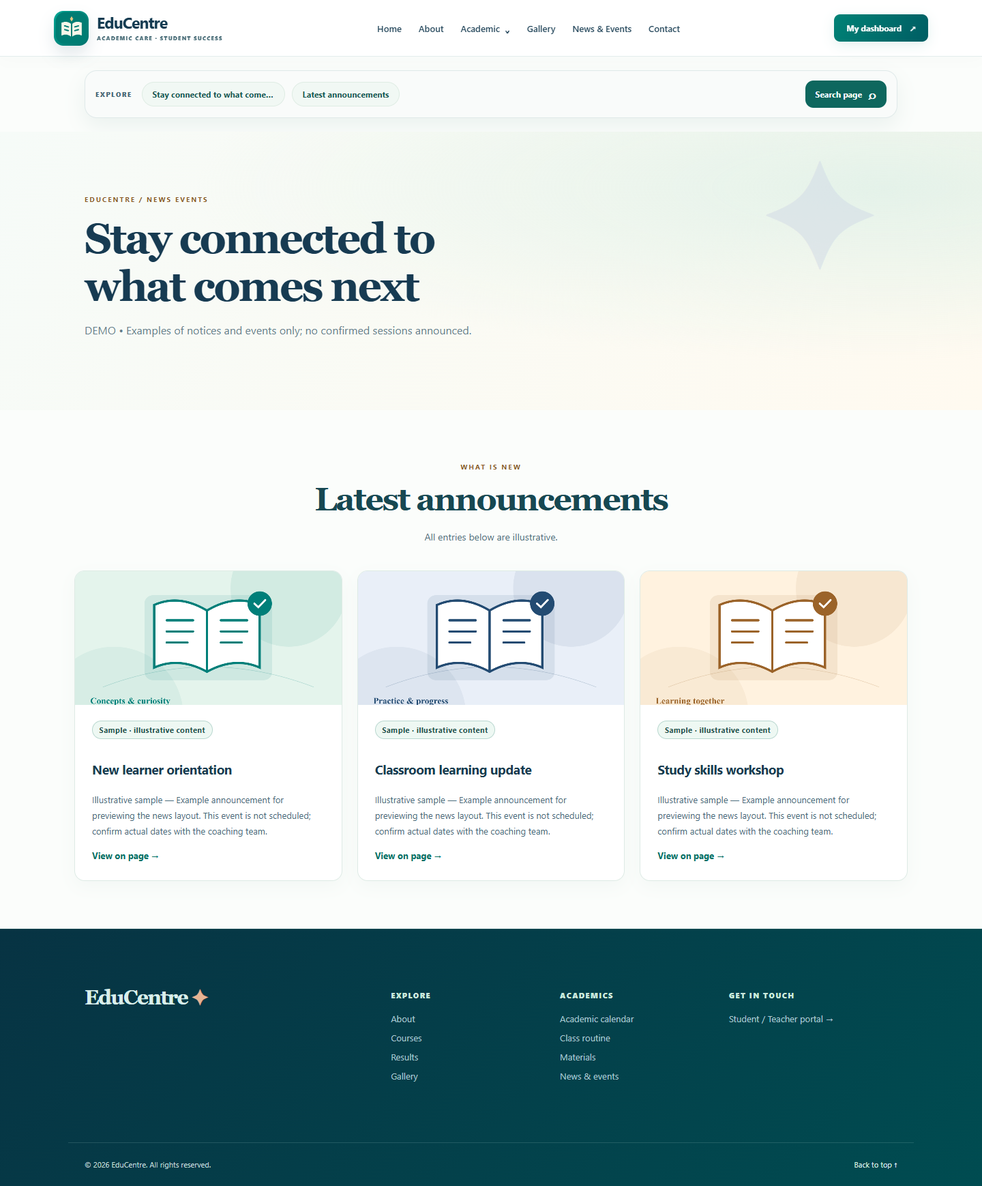
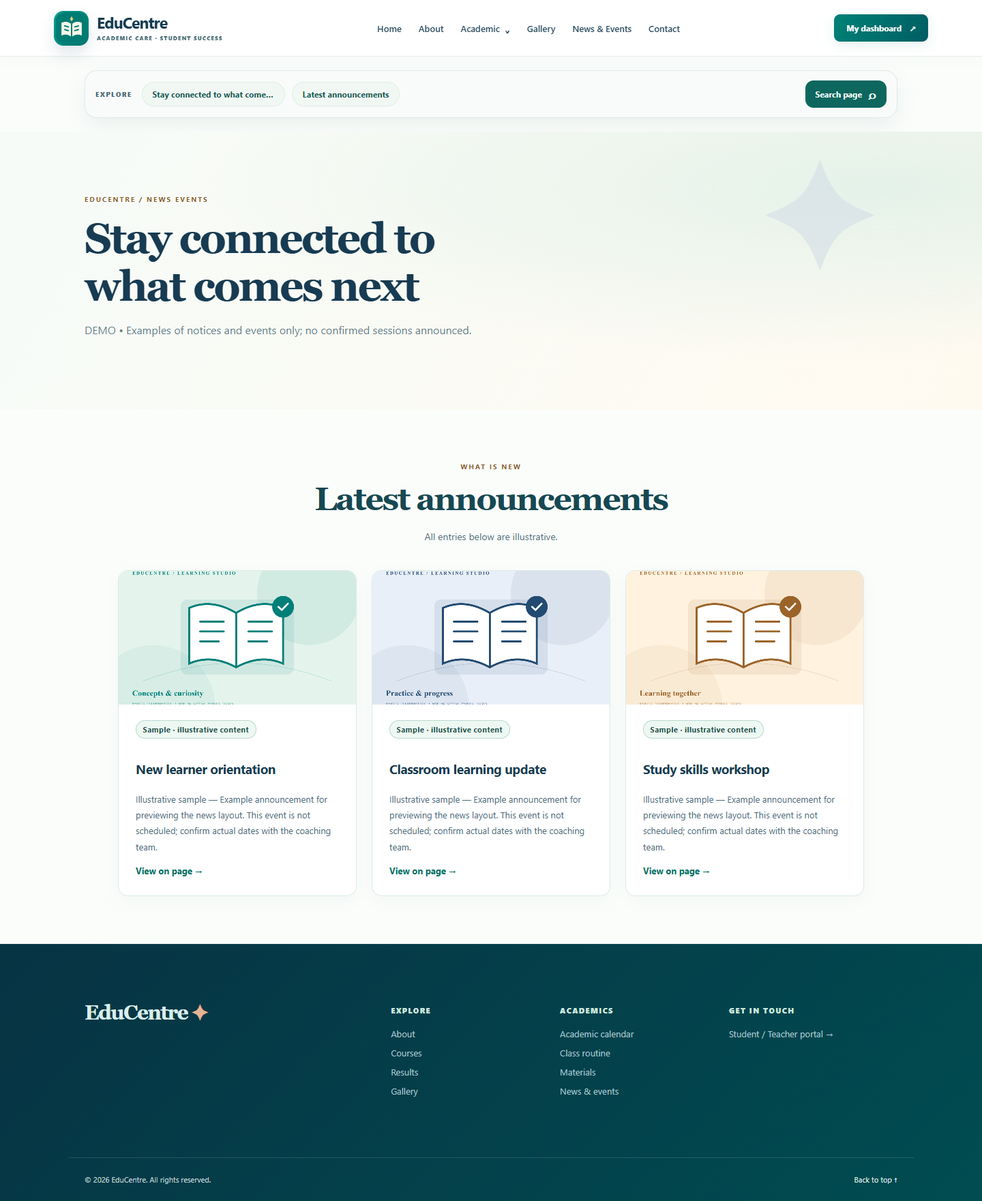
feat: add complete CMS card controls and center carousel slides

diff --git a/src/components/portal/WebsiteAdminStudio.tsx b/src/components/portal/WebsiteAdminStudio.tsx
@@ -54,14 +54,15 @@ export function WebsiteAdminStudio({target}:{target?:{id?:string;sectionId?:stri
  const [writeStatus,setWriteStatus]=useState<'checking'|'enabled'|'disabled'|'unavailable'|'unauthenticated'|'forbidden'>('checking');
  const [writeRuntime,setWriteRuntime]=useState<'local-development'|'deployment'>('local-development');
  const [designPreview,setDesignPreview]=useState<{sectionId:string;itemId:string|null;design:CmsDesign}|null>(null);
+ const [mediaPreview,setMediaPreview]=useState<{itemId:string;mediaId:string|null}|null>(null),[mediaBusy,setMediaBusy]=useState(false);
  const [typedDirty,setTypedDirty]=useState(false);
  const [typedPreview,setTypedPreview]=useState<{sectionId:string;itemId:string;key:string;value:Record<string,unknown>}|null>(null);
  const statusSequence=useRef(0),mutationBusy=useRef(false),appliedSectionTarget=useRef('');
  const selection=useRef(0);const handledTarget=useRef<number|null>(null);const selected=page?.sections.find(s=>s.id===selectedSection);const content=selected?.items.find(i=>i.id===selectedItem);
  const settingsDirty=Boolean(global&&JSON.stringify(settings)!==JSON.stringify(global.settings));
- const unsaved=settingsDirty||typedDirty||Boolean(designPreview)||Boolean(!selected&&(section.heading||section.body))||Boolean(!content&&(item.title||item.description||item.url))||Boolean(page&&(title!==page.title||seoTitle!==page.seoTitle||seoDescription!==page.seoDescription||selected&&(section.kind!==selected.kind||section.heading!==selected.heading||section.body!==selected.body||section.visible!==selected.visible)||content&&(item.title!==content.title||item.description!==content.description||item.url!==(content.url??'')||item.visible!==content.visible)));
- const canPublish=Boolean(page&&page.draftRevision!==page.publishedRevision&&!unsaved&&writeStatus==='enabled'&&!busy);
- const previewPage=page?{...page,title,sections:page.sections.map(s=>s.id===selectedSection?{...s,...section,...(designPreview?.sectionId===s.id&&!designPreview.itemId?{design:designPreview.design}:{}),...(typedPreview?.sectionId===s.id&&!typedPreview.itemId?{sectionKey:typedPreview.key,content:typedPreview.value}:{}),items:s.items.map(i=>i.id===selectedItem?{...i,...item,url:item.url||null,...(designPreview?.itemId===i.id?{design:designPreview.design}:{}),...(typedPreview?.itemId===i.id?{metadata:typedPreview.value}:{})}:i)}:s)}:null;
+ const unsaved=settingsDirty||typedDirty||Boolean(mediaPreview)||Boolean(designPreview)||Boolean(!selected&&(section.heading||section.body))||Boolean(!content&&(item.title||item.description||item.url))||Boolean(page&&(title!==page.title||seoTitle!==page.seoTitle||seoDescription!==page.seoDescription||selected&&(section.kind!==selected.kind||section.heading!==selected.heading||section.body!==selected.body||section.visible!==selected.visible)||content&&(item.title!==content.title||item.description!==content.description||item.url!==(content.url??'')||item.visible!==content.visible)));
+ const canPublish=Boolean(page&&page.draftRevision!==page.publishedRevision&&!unsaved&&writeStatus==='enabled'&&!busy&&!mediaBusy);
+ const previewPage=page?{...page,title,sections:page.sections.map(s=>s.id===selectedSection?{...s,...section,...(designPreview?.sectionId===s.id&&!designPreview.itemId?{design:designPreview.design}:{}),...(typedPreview?.sectionId===s.id&&!typedPreview.itemId?{sectionKey:typedPreview.key,content:typedPreview.value}:{}),items:s.items.map(i=>i.id===selectedItem?{...i,...item,url:item.url||null,...(mediaPreview?.itemId===i.id?{mediaId:mediaPreview.mediaId}:{}),...(designPreview?.itemId===i.id?{design:designPreview.design}:{}),...(typedPreview?.itemId===i.id?{metadata:typedPreview.value}:{})}:i)}:s)}:null;
 
  useEffect(()=>{if(!unsaved)return;const before=(event:BeforeUnloadEvent)=>{event.preventDefault();};const navigate=(event:MouseEvent)=>{const target=event.target instanceof Element?event.target.closest('.portal-workspace-switch button,.portal-signout,.portal-mobile-logout'):null;if(target&&!window.confirm('Discard unsaved website edits?')){event.preventDefault();event.stopPropagation();}};window.addEventListener('beforeunload',before);document.addEventListener('click',navigate,true);return()=>{window.removeEventListener('beforeunload',before);document.removeEventListener('click',navigate,true);};},[unsaved]);
  // Load write readiness after mounting, without a synchronous effect state update.
@@ -96,14 +97,14 @@ export function WebsiteAdminStudio({target}:{target?:{id?:string;sectionId?:stri
   if(!next||typeof next.revision!=='number'||!next.settings||typeof next.settings.siteTitle!=='string')throw Error('Invalid global settings response.');
   setGlobal(next);setSettings({...next.settings});
  },[]);
- useEffect(()=>{const reload=()=>{void refreshMedia().catch(()=>{});};window.addEventListener('educentre:media-uploaded',reload);return()=>window.removeEventListener('educentre:media-uploaded',reload);},[refreshMedia]);
+ useEffect(()=>{const reload=()=>{void refreshMedia().catch(()=>{});};const uploading=(event:Event)=>setMediaBusy(Boolean((event as CustomEvent).detail));window.addEventListener('educentre:media-uploaded',reload);window.addEventListener('educentre:media-busy',uploading);return()=>{window.removeEventListener('educentre:media-uploaded',reload);window.removeEventListener('educentre:media-busy',uploading);};},[refreshMedia]);
  const choosePage=useCallback(async(id:string,preserve=false)=>{
   const seq=++selection.current;
   setBusy(true);setError('');setNotice('');
   try{
    const next=validateCmsPage(await cmsFetch('page',{pageId:id})) as Page;
    if(seq!==selection.current)return;
-   setPage(next);setTitle(next.title);setSeoTitle(next.seoTitle);setSeoDescription(next.seoDescription);setTypedDirty(false);setTypedPreview(null);setDesignPreview(null);
+   setPage(next);setTitle(next.title);setSeoTitle(next.seoTitle);setSeoDescription(next.seoDescription);setTypedDirty(false);setTypedPreview(null);setDesignPreview(null);setMediaPreview(null);
    if(!preserve){setSelectedSection('');setSelectedItem('');setSection(emptySection);setItem(emptyItem);setTypedPreview(null);setContextFocus({id:'page:'+next.id,pageId:next.id,label:next.title,type:'page'});}
    return next;
   }catch(e){if(seq===selection.current)setError(errorOf(e));}finally{if(seq===selection.current)setBusy(false);}
@@ -166,7 +167,7 @@ export function WebsiteAdminStudio({target}:{target?:{id?:string;sectionId?:stri
   catch(e){setError(errorOf(e));if(e instanceof CmsRequestError){if(e.code==='MUTATIONS_DISABLED')setWriteStatus('disabled');else if(e.status===401)setWriteStatus('unauthenticated');else if(e.status===403)setWriteStatus('forbidden');else if(e.status>=500)setWriteStatus('unavailable');}}finally{mutationBusy.current=false;setBusy(false);}
  };
  function saveAllDraftChanges(){
-  if(!page||!unsaved)return;
+  if(!page||!unsaved||mediaBusy)return;
   const steps:CmsDraftStep[]=[];
   if(title!==page.title||seoTitle!==page.seoTitle||seoDescription!==page.seoDescription)steps.push({kind:'pageUpdate',params:{payload:{title,seoTitle,seoDescription}}});
   const sectionChanged=selected?section.kind!==selected.kind||section.heading!==selected.heading||section.body!==selected.body||section.visible!==selected.visible:Boolean(section.heading||section.body);
@@ -176,6 +177,7 @@ export function WebsiteAdminStudio({target}:{target?:{id?:string;sectionId?:stri
   if(itemChanged)steps.push({kind:'item',params:{sectionId:selected!.id,itemId:content?.id??crypto.randomUUID(),payload:{...item,url:item.url.trim()||null,order:content?.order??(selected!.items.length?Math.max(...selected!.items.map(value=>value.order))+1:0)}}});
   if(typedDirty&&typedPreview)steps.push({kind:'fields',params:{sectionId:typedPreview.sectionId,payload:{sectionKey:typedPreview.key,content:typedPreview.value,itemId:typedPreview.itemId||null}}});
   if(designPreview)steps.push({kind:'design',params:{sectionId:designPreview.sectionId,payload:{design:designPreview.design,itemId:designPreview.itemId}}});
+  if(mediaPreview)steps.push(mediaPreview.mediaId?{kind:'attach',params:{itemId:mediaPreview.itemId,mediaId:mediaPreview.mediaId,payload:{mediaId:mediaPreview.mediaId}}}:{kind:'organize',params:{payload:{action:'media.detach',sectionId:null,itemId:mediaPreview.itemId,orderIds:null}}});
   if(!steps.length){setError('Complete the active fields before saving a draft.');return;}
   void run(async()=>{await saveCmsDraft(page.id,page.draftRevision,steps);if(sectionChanged)setSelectedSection(sectionId);},page.id,false,'Draft changes saved and confirmed. Publish separately when you are ready.');
  }
@@ -196,7 +198,7 @@ export function WebsiteAdminStudio({target}:{target?:{id?:string;sectionId?:stri
 
  async function selectContext(node:CmsNode){
   const next=page?.id===node.pageId?page:await choosePage(node.pageId);if(!next)return;
-  setContextFocus(node);setTypedDirty(false);setTypedPreview(null);setSelectedSection(node.sectionId??'');setSelectedItem(node.itemId??'');
+  setContextFocus(node);setMediaPreview(null);setDesignPreview(null);setTypedDirty(false);setTypedPreview(null);setSelectedSection(node.sectionId??'');setSelectedItem(node.itemId??'');
   const source=next.sections.find(s=>s.id===node.sectionId),card=source?.items.find(i=>i.id===node.itemId);
   if(source&&node.schemaKey&&!source.sectionKey)setTypedPreview({sectionId:source.id,itemId:node.itemId??'',key:node.schemaKey,value:source.content??(node.schemaKey==='HOME_HERO'?{headline:source.heading,description:source.body}:{})});
   setSection(source?{kind:source.kind,heading:source.heading,body:source.body,visible:source.visible}:emptySection);setItem(card?{title:card.title,description:card.description,url:card.url??'',visible:card.visible}:emptyItem);
@@ -205,11 +207,11 @@ export function WebsiteAdminStudio({target}:{target?:{id?:string;sectionId?:stri
  async function duplicate(source:Section,card?:Item){if(!page||!window.confirm('Duplicate this '+(card?'card':'section')+' into the private draft?'))return;void run(async()=>{let revision=page.draftRevision;const sid=card?source.id:crypto.randomUUID();const readRevision=async()=>{const next=validateCmsPage(await cmsFetch('page',{pageId:page.id})) as Page;revision=next.draftRevision;};if(!card){await cmsFetch('section',{pageId:page.id,sectionId:sid,payload:{expectedRevision:revision,kind:source.kind,heading:source.heading+' (copy)',body:source.body,visible:false,order:Math.max(...page.sections.map(s=>s.order))+1}});await readRevision();if(source.sectionKey){await cmsFetch('fields',{pageId:page.id,sectionId:sid,payload:{expectedRevision:revision,sectionKey:source.sectionKey,content:source.content??{},itemId:null}});await readRevision();}}for(const value of card?[card]:source.items){const id=crypto.randomUUID();await cmsFetch('item',{pageId:page.id,sectionId:sid,itemId:id,payload:{expectedRevision:revision,title:value.title+(card?' (copy)':''),description:value.description,url:value.url,visible:card?false:value.visible,order:card?Math.max(-1,...source.items.map(i=>i.order))+1:value.order}});await readRevision();if(source.sectionKey&&value.metadata){await cmsFetch('fields',{pageId:page.id,sectionId:sid,payload:{expectedRevision:revision,sectionKey:source.sectionKey,content:value.metadata,itemId:id}});await readRevision();}if(value.mediaId){await cmsFetch('attach',{pageId:page.id,itemId:id,mediaId:value.mediaId,payload:{expectedRevision:revision,mediaId:value.mediaId}});await readRevision();}}},page.id,false,'Copy saved privately. Review before publishing.');}
  function hide(source:Section,card?:Item){if(!page||!window.confirm((card?.visible??source.visible)?'Disable this content in the draft? It remains stored and can be enabled again.':'Enable this content in the draft?'))return;void run(()=>card?cmsFetch('item',{pageId:page.id,sectionId:source.id,itemId:card.id,payload:{expectedRevision:page.draftRevision,title:card.title,description:card.description,url:card.url,visible:!card.visible,order:card.order}}):cmsFetch('section',{pageId:page.id,sectionId:source.id,payload:{expectedRevision:page.draftRevision,kind:source.kind,heading:source.heading,body:source.body,visible:!source.visible,order:source.order}}),page.id);}
  async function saveHomeLayout(order:string[],hidden:string[]){if(!page||page.slug!=='home'||unsaved)return;void run(async()=>{const layout=page.sections.find(s=>s.sectionKey==='HOME_LAYOUT');let revision=page.draftRevision;const id=layout?.id??crypto.randomUUID();if(!layout){await cmsFetch('section',{pageId:page.id,sectionId:id,payload:{expectedRevision:revision,kind:'footer',heading:'Homepage arrangement',body:'',visible:true,order:Math.max(-1,...page.sections.map(s=>s.order))+1}});const next=validateCmsPage(await cmsFetch('page',{pageId:page.id})) as Page;revision=next.draftRevision;}await cmsFetch('fields',{pageId:page.id,sectionId:id,payload:{expectedRevision:revision,sectionKey:'HOME_LAYOUT',content:{sectionOrder:order,hiddenSections:hidden},itemId:null}});},page.id,false,'Home arrangement saved privately. Review the preview and publish Home when ready.');}
- return <CmsContextWorkspace tool={tab} writeRuntime={writeRuntime} pages={pages} page={page} preview={previewPage} media={media} settings={settings} global={global} busy={busy} loading={loading} unsaved={unsaved} error={error} notice={notice} writable={writeStatus==='enabled'} canPublish={canPublish} focus={contextFocus}
+ return <CmsContextWorkspace tool={tab} writeRuntime={writeRuntime} pages={pages} page={page} preview={previewPage} media={media} settings={settings} global={global} busy={busy||mediaBusy} loading={loading} unsaved={unsaved} error={error} notice={notice} writable={writeStatus==='enabled'} canPublish={canPublish} focus={contextFocus}
  select={selectContext} save={()=>{if(settingsDirty&&global){void run(async()=>{await cmsFetch('settingsUpdate',{payload:{expectedRevision:global.revision,settings}});await refreshSettings();},null);}else saveAllDraftChanges();}} publish={publish} reset={()=>{if(global)setSettings({...global.settings});if(page){const focus=contextFocus;void choosePage(page.id).then(async next=>{if(next&&focus){setContextFocus(focus);const s=next.sections.find(s=>s.id===focus.sectionId),i=s?.items.find(i=>i.id===focus.itemId);setSelectedSection(s?.id??'');setSelectedItem(i?.id??'');setSection(s?{kind:s.kind,heading:s.heading,body:s.body,visible:s.visible}:emptySection);setItem(i?{title:i.title,description:i.description,url:i.url??'',visible:i.visible}:emptyItem);}});}}}
  changeDesign={design=>{if(selected)setDesignPreview({sectionId:selected.id,itemId:selectedItem||null,design});}} changeSection={value=>setSection(previous=>({...previous,kind:value.kind??previous.kind,heading:value.heading??previous.heading,body:value.body??previous.body,visible:value.visible??previous.visible}))} changeItem={value=>setItem(previous=>({...previous,title:value.title??previous.title,description:value.description??previous.description,url:value.url??previous.url,visible:value.visible??previous.visible}))}
  changeFields={(key,value)=>{if(!selected)return;setTypedDirty(true);setTypedPreview({sectionId:selected.id,itemId:selectedItem,key,value});}} changePage={value=>{if(value.title!==undefined)setTitle(value.title);if(value.seoTitle!==undefined)setSeoTitle(value.seoTitle);if(value.seoDescription!==undefined)setSeoDescription(value.seoDescription);}}
- createPage={(slug,title)=>{const id=crypto.randomUUID();void run(()=>cmsFetch('pageCreate',{payload:{id,slug,title,seoTitle:title,seoDescription:''}}),id);}} createSection={(kind,heading,key)=>void addSection(kind,heading,key)} createItem={()=>{if(!page||!selected)return;const id=crypto.randomUUID();void run(()=>cmsFetch('item',{pageId:page.id,sectionId:selected.id,itemId:id,payload:{expectedRevision:page.draftRevision,order:Math.max(-1,...selected.items.map(i=>i.order))+1,title:'New card',description:'',url:null,visible:false}}),page.id);}} reorder={moveContent} saveHomeLayout={(order,hidden)=>void saveHomeLayout(order,hidden)} duplicate={(section,item)=>void duplicate(section,item)} hide={hide}
+ createPage={(slug,title)=>{const id=crypto.randomUUID();void run(()=>cmsFetch('pageCreate',{payload:{id,slug,title,seoTitle:title,seoDescription:''}}),id);}} createSection={(kind,heading,key)=>void addSection(kind,heading,key)} createItem={()=>{if(!page||!selected||unsaved)return;const id=crypto.randomUUID();void run(async()=>{await cmsFetch('item',{pageId:page.id,sectionId:selected.id,itemId:id,payload:{expectedRevision:page.draftRevision,order:Math.max(-1,...selected.items.map(i=>i.order))+1,title:'New card',description:'',url:null,visible:true}});setSelectedItem(id);setItem({title:'New card',description:'',url:'',visible:true});setContextFocus({id:'item:'+id,pageId:page.id,sectionId:selected.id,itemId:id,type:'item',label:'New card'});},page.id,false,'Card created. Add its text and image, then save draft.');}} reorder={moveContent} saveHomeLayout={(order,hidden)=>void saveHomeLayout(order,hidden)} duplicate={(section,item)=>void duplicate(section,item)} hide={hide} remove={(section,card)=>{if(!page||unsaved)return;void run(async()=>{await cmsFetch('organize',{pageId:page.id,payload:{action:card?'item.delete':'section.delete',sectionId:section.id,itemId:card?.id??null,orderIds:null,expectedRevision:page.draftRevision}});setSelectedItem('');setItem(emptyItem);if(!card){setSelectedSection('');setSection(emptySection);setContextFocus({id:'page:'+page.id,pageId:page.id,type:'page',label:page.title});return;}setContextFocus({id:'section:'+section.id,pageId:page.id,sectionId:section.id,type:'section',label:section.heading});},page.id,false,'Deleted from the draft. Publish this page to update visitors.');}}
  upload={async(file,alt)=>{if(!file.size||file.size>5242880||!['image/png','image/jpeg','image/webp','image/avif'].includes(file.type)||alt.trim().length<2)throw Error('Choose an image up to 5 MiB and descriptive alternative text.');await run(async()=>{const response=await fetch('/api/v1/teacher/website/media/upload',{method:'POST',headers:{'Content-Type':file.type,'x-musa-ui':'1','Idempotency-Key':crypto.randomUUID(),'x-media-id':crypto.randomUUID(),'x-media-alt':alt.trim()},body:file});if(!response.ok)throw cmsResponseError(response.status,await response.json());},page?.id??null,true,'Image uploaded privately. Choose an image field to attach it.');}}
- attach={(itemId,mediaId)=>{if(!page||!selected)return;void run(()=>mediaId?cmsFetch('attach',{pageId:page.id,itemId,mediaId,payload:{mediaId,expectedRevision:page.draftRevision}}):cmsFetch('organize',{pageId:page.id,payload:{action:'media.detach',sectionId:null,itemId,orderIds:null,expectedRevision:page.draftRevision}}),page.id);}} changeSettings={setSettings} saveSettings={updateSettings} publishSettings={publishSettings} archive={archive} retry={()=>void checkWriteStatus()}/>;
+ attach={(itemId,mediaId)=>setMediaPreview({itemId,mediaId})} changeSettings={setSettings} saveSettings={updateSettings} publishSettings={publishSettings} archive={archive} retry={()=>void checkWriteStatus()}/>;
 }

diff --git a/src/components/portal/CmsContextWorkspace.tsx b/src/components/portal/CmsContextWorkspace.tsx
@@ -9,6 +9,7 @@ import {cmsFetch,validateCmsPage,CMS_KINDS,type CmsKind} from '@/client/cms-stud
 import {cmsTree,filterTree,findNode,schemaAt,valueAt,replaceAt,type CmsNode} from '@/client/cms-tree.mjs';
 import {CmsDesignEditor} from './CmsDesignEditor';
 import {CmsSchemaFields} from './StructuredCmsEditor';
+import {CmsCardCollection} from './CmsCardCollection';
 import {CmsImageField} from './CmsImageField';
 import {CmsLivePreview} from './CmsLivePreview';
 import {PublishedVideo} from '../website/PublishedVideo';
@@ -26,7 +27,7 @@ type Settings={siteTitle:string;tagline:string;contactEmail:string;contactPhone:
 type Selection={node:CmsNode|null;mode:'overview'|'structure'|'content'|'seo'|'media'|'settings'|'navigation'|'publishing'|'style'};
 export type CmsContextProps={writeRuntime:'local-development'|'deployment';tool:'content'|'media'|'settings';pages:Listing[];page:CmsPage|null;preview:CmsPage|null;media:Media[];settings:Settings;global:{revision:number;publishedRevision:number|null;settings:Settings}|null;busy:boolean;loading:boolean;unsaved:boolean;error:string;notice:string;writable:boolean;canPublish:boolean;focus:CmsNode|null;
  changeDesign:(design:CmsDesign)=>void;select:(node:CmsNode)=>Promise<void>;save:()=>void;publish:()=>void;reset:()=>void;changeSection:(next:Partial<CmsSection>)=>void;changeItem:(next:Partial<CmsItem>)=>void;changeFields:(key:string,value:Record<string,unknown>)=>void;changePage:(next:{title?:string;seoTitle?:string;seoDescription?:string})=>void;
- createPage:(slug:string,title:string)=>void;createSection:(kind:CmsKind,heading:string,key?:string)=>void;createItem:()=>void;reorder:(sectionId:string|null,ids:string[],index:number,direction:number)=>void;saveHomeLayout:(order:string[],hidden:string[])=>void;duplicate:(section:CmsSection,item?:CmsItem)=>void;hide:(section:CmsSection,item?:CmsItem)=>void;upload:(file:File,alt:string)=>Promise<void>;attach:(itemId:string,mediaId:string|null)=>void;changeSettings:(value:Settings)=>void;saveSettings:(event:FormEvent)=>void;publishSettings:()=>void;archive:()=>void;retry:()=>void;};
+ remove:(section:CmsSection,item?:CmsItem)=>void;createPage:(slug:string,title:string)=>void;createSection:(kind:CmsKind,heading:string,key?:string)=>void;createItem:()=>void;reorder:(sectionId:string|null,ids:string[],index:number,direction:number)=>void;saveHomeLayout:(order:string[],hidden:string[])=>void;duplicate:(section:CmsSection,item?:CmsItem)=>void;hide:(section:CmsSection,item?:CmsItem)=>void;upload:(file:File,alt:string)=>Promise<void>;attach:(itemId:string,mediaId:string|null)=>void;changeSettings:(value:Settings)=>void;saveSettings:(event:FormEvent)=>void;publishSettings:()=>void;archive:()=>void;retry:()=>void;};
 function Tree({nodes,active,onSelect,expanded,setExpanded,search}:{nodes:CmsNode[];active:string;onSelect:(node:CmsNode)=>void;expanded:Set<string>;setExpanded:(id:string)=>void;search:boolean}){return <ul>{nodes.map(node=><li key={node.id}><div className="cms-tree-row">{node.children?.length?<button className="cms-tree-toggle" aria-label={`${expanded.has(node.id)?'Collapse':'Expand'} ${node.label}`} aria-expanded={search||expanded.has(node.id)} onClick={()=>setExpanded(node.id)}>{search||expanded.has(node.id)?'−':'+'}</button>:<span className="cms-tree-dot"/>}<button className={active===node.id?'selected':''} aria-current={active===node.id?'page':undefined} onClick={()=>onSelect(node)} title={node.label}>{node.type==='page'&&<PortalIcon name="website" size={16}/>}<span>{node.label}</span></button></div>{Boolean(node.children?.length)&&(search||expanded.has(node.id))&&<Tree nodes={node.children!} active={active} onSelect={onSelect} expanded={expanded} setExpanded={setExpanded} search={search}/>}</li>)}</ul>;}
 const commonSection:FieldSchema={type:'object',properties:{heading:{type:'string',title:'Section heading',maxLength:160},body:{type:'string',title:'Section description',maxLength:6000},visible:{type:'boolean',title:'Show section after publishing'}}};
 const commonItem:FieldSchema={type:'object',properties:{title:{type:'string',title:'Title',maxLength:160},description:{type:'string',title:'Description',maxLength:2000},url:{type:'string',title:'YouTube URL or HTTPS link',maxLength:2048,link:true},mediaId:{type:'string',title:'Image',media:true},visible:{type:'boolean',title:'Show card after publishing'}}};
@@ -47,6 +48,7 @@ export function CmsContextWorkspace(p:CmsContextProps){
  if(section){
   if(selected?.scope==='section'){schema=schemaAt(commonSection,selected.path??[]);fieldValue=valueAt(section,selected.path??[]);change=value=>p.changeSection(replaceAt(section,selected.path??[],value) as CmsSection);}
   else if(selected?.scope==='item'&&item){schema=schemaAt(commonItem,selected.path??[]);fieldValue=valueAt(item,selected.path??[]);change=value=>selected.path?.[0]==='mediaId'?p.attach(item.id,String(value)||null):p.changeItem(replaceAt(item,selected.path??[],value) as CmsItem);}
+  else if(item&&selected?.type==='item'){schema={...commonItem,properties:Object.fromEntries(Object.entries(commonItem.properties!).filter(([key])=>key!=='mediaId'))};fieldValue=item;change=value=>p.changeItem(value as CmsItem);}
   else if(form){const root=item?form.item:form.section,values=item?.metadata??section.content??{};schema=selected?.type==='group'?{type:'object',properties:Object.fromEntries((selected.keys??[]).map(key=>[key,root.properties![key]]))}:schemaAt(root,selected?.path??[]);fieldValue=valueAt(values,selected?.path??[]);change=value=>p.changeFields(form.key,replaceAt(values,selected?.path??[],value) as Record<string,unknown>);}
   else{schema=item?commonItem:commonSection;fieldValue=item??section;change=value=>item?p.changeItem(value as CmsItem):p.changeSection(value as CmsSection);}
  }
@@ -67,10 +69,9 @@ export function CmsContextWorkspace(p:CmsContextProps){
    !p.page?<p>Select a page from the navigation.</p>:mode==='seo'?<><h2>Page details & SEO</h2>{[['title','Page title'],['seoTitle','Search engine title'],['seoDescription','Search description']].map(([key,label])=><label className="cms-single-field" key={key}>{label}<input value={String(p.preview?.[key as keyof CmsPage]??'')} maxLength={key==='seoDescription'?500:160} onChange={e=>p.changePage({[key]:e.target.value})}/></label>)}</>:
    mode==='style'?section?<CmsDesignEditor value={item?.design??section.design??{}} onChange={p.changeDesign} images={[...new Set([...(item?.mediaId?[item.mediaId]:[]),...p.media.filter(asset=>JSON.stringify(item?{mediaId:item.mediaId,metadata:item.metadata}:{content:section.content,items:section.items.map(({mediaId,metadata})=>({mediaId,metadata}))}).includes(asset.id)).map(asset=>asset.id)])]} media={p.media} busy={p.busy} selectedImage={typeof fieldValue==='string'&&p.media.some(asset=>asset.id===fieldValue)?fieldValue:undefined}/>:<p>Select a section or image field, then open Style.</p>:
    mode==='structure'?<><div className="premium-section-title"><h2>{p.page.title}</h2><span>{p.page.sections.length} sections</span></div>{p.page.slug==='home'?<HomeStructure p={p} actual={actual} onSelect={select}/>:<ol className="cms-section-cards">{p.page.sections.slice().sort((a,b)=>a.order-b.order).map((section,index,ordered)=><li key={section.id}><button className="cms-section-main" onClick={()=>select({id:'section:'+section.id,pageId:p.page!.id,sectionId:section.id,type:'section',label:section.heading||section.kind})}><span>{index+1}</span><div><strong>{section.heading||section.kind}</strong><small>{section.visible?'Visible':'Hidden'} · {section.items.length} cards</small></div></button><div className="cms-section-actions"><button aria-label={`Move ${section.heading} up`} disabled={p.busy||index===0} onClick={()=>p.reorder(null,ordered.map(s=>s.id),index,-1)}>↑</button><button aria-label={`Move ${section.heading} down`} disabled={p.busy||index===ordered.length-1} onClick={()=>p.reorder(null,ordered.map(s=>s.id),index,1)}>↓</button><button disabled={Boolean(section.sectionKey)} title={section.sectionKey?'This source is unique on this page. Duplicate its cards instead.':undefined} onClick={()=>p.duplicate(section)}>Duplicate</button><button onClick={()=>p.hide(section)}>{section.visible?'Disable':'Enable'}</button></div></li>)}</ol>}<details className="studio-expansion"><summary>Add section</summary><form className="studio-form" onSubmit={e=>{e.preventDefault();p.createSection(newKind,newHeading,newKey||undefined);}}><label>Section type<select aria-label="Section type" value={newKind} onChange={e=>{setNewKind(e.target.value as CmsKind);setNewKey('');}}>{CMS_KINDS.map(kind=><option key={kind}>{kind}</option>)}</select></label><label>Section blueprint<select aria-label="Section blueprint" value={newKey} onChange={e=>setNewKey(e.target.value)}><option value="">General section</option>{Object.values(CMS_FORMS).filter(form=>form.kind===newKind&&form.key!=='HOME_LAYOUT').map(form=><option value={form.key} key={form.key}>{form.label}</option>)}</select></label><label>Heading<input required maxLength={160} value={newHeading} onChange={e=>setNewHeading(e.target.value)}/></label><button className="portal-primary" disabled={p.busy||!p.writable}>Add section to draft</button></form></details></>:
-   section?<><div className="premium-section-title"><div><span className="portal-kicker">{item?'CONTENT CARD':selected?.type==='field'||selected?.type==='group'?'FOCUSED FIELD':'SECTION EDITOR'}</span><h2>{selected?.label||section.heading}</h2></div><span className="studio-pill">{p.unsaved?'Editing draft':'Saved draft'}</span></div>{schema&&<fieldset disabled={p.busy} className="cms-focused-fields"><CmsSchemaFields schema={schema} value={fieldValue} onChange={change} path={selected?.label??'Content'} media={p.media} choices={choices}/></fieldset>}{!form&&selected?.type==='section'&&<label className="cms-single-field">Add structured content<select value="" onChange={e=>{if(e.target.value)p.changeFields(e.target.value,{});}}><option value="">Choose a matching content form</option>{Object.values(CMS_FORMS).filter(form=>form.kind===section.kind).map(form=><option key={form.key} value={form.key}>{form.label}</option>)}</select></label>}
+   section?<><div className="premium-section-title"><div><span className="portal-kicker">{item?'CONTENT CARD':selected?.type==='field'||selected?.type==='group'?'FOCUSED FIELD':'SECTION EDITOR'}</span><h2>{selected?.label||section.heading}</h2></div><span className="studio-pill">{p.unsaved?'Editing draft':'Saved draft'}</span></div>{selected?.type==='section'&&<CmsCardCollection p={p} section={section} onSelect={select}/>}{schema&&<fieldset disabled={p.busy} className="cms-focused-fields"><CmsSchemaFields schema={schema} value={fieldValue} onChange={change} path={selected?.label??'Content'} media={p.media} choices={choices}/></fieldset>}{selected?.type==='section'&&<button className="cms-delete-button" disabled={p.unsaved||p.busy||!p.writable} onClick={()=>{if(window.confirm('Delete this section and its cards from the draft? Publish afterward to update visitors.'))p.remove(section);}}>Delete section</button>}{!form&&selected?.type==='section'&&<label className="cms-single-field">Add structured content<select value="" onChange={e=>{if(e.target.value)p.changeFields(e.target.value,{});}}><option value="">Choose a matching content form</option>{Object.values(CMS_FORMS).filter(form=>form.kind===section.kind).map(form=><option key={form.key} value={form.key}>{form.label}</option>)}</select></label>}
     {typeof fieldValue==='string'&&(/url/i.test(String(selected?.path?.at(-1)))||section.sectionKey==='HOME_YOUTUBE_CLASSES')&&<div className="cms-inline-video">{youtubeVideoId(fieldValue)?<><p className="portal-success">Video found. Preview your class below.</p><PublishedVideo key={fieldValue} videoId={youtubeVideoId(fieldValue)!} title={item?.title||'Video class preview'}/></>:fieldValue&&/youtu/i.test(fieldValue)?<p role="alert">Enter a valid HTTPS YouTube watch, Shorts, embed or shortened URL.</p>:null}</div>}
-    {selected?.type==='section'&&<><h3>Content cards</h3>{section.items.map(card=><div className="cms-card-row" key={card.id}><button onClick={()=>select({id:'item:'+card.id,pageId:p.page!.id,sectionId:section.id,itemId:card.id,type:'item',label:card.title||'Untitled card'})}>{card.title||'Untitled card'}</button><button onClick={()=>p.duplicate(section,card)}>Duplicate</button><button onClick={()=>p.hide(section,card)}>{card.visible?'Disable':'Enable'}</button></div>)}<button className="portal-secondary" onClick={p.createItem}>Add card</button></>}
-    {item&&<><div className="studio-actions"><button className="portal-secondary" onClick={()=>p.duplicate(section,item)}>Duplicate card</button><button className="portal-secondary" onClick={()=>p.hide(section,item)}>{item.visible?'Disable card':'Enable card'}</button></div><CmsImageField label="Card image" value={item.mediaId??''} onChange={mediaId=>p.attach(item.id,mediaId||null)} media={p.media} disabled={p.busy} path="Card image"/></>}
+    {item&&<><div className="cms-card-editor-toolbar"><button className="portal-secondary" disabled={p.busy} onClick={()=>select({id:'section:'+section.id,pageId:p.page!.id,sectionId:section.id,type:'section',label:section.heading})}>Back to all cards</button><button className="portal-primary" disabled={!p.unsaved||p.busy||!p.writable} onClick={p.save}>Update card</button><button className="portal-secondary" disabled={p.unsaved||p.busy||!p.writable} onClick={p.createItem}>+ Add card</button><button className="cms-delete-button" disabled={p.unsaved||p.busy||!p.writable} onClick={()=>{if(window.confirm('Delete this card from the draft? Publish afterward to update visitors.'))p.remove(section,item);}}>Delete card</button></div><CmsImageField label="Card image" value={item.mediaId??''} onChange={mediaId=>p.attach(item.id,mediaId||null)} media={p.media} disabled={p.busy} path="Card image"/>{form&&selected?.type==='item'&&Object.keys(form.item.properties??{}).length>0&&<fieldset disabled={p.busy} className="cms-focused-fields"><legend>Additional card details</legend><CmsSchemaFields schema={form.item} value={item.metadata??{}} onChange={value=>p.changeFields(form.key,value as Record<string,unknown>)} path="Card details" media={p.media} choices={choices}/></fieldset>}</>}
    </>:<p>Select a section or field from the navigation to edit.</p>}
   </div><aside className="cms-context-preview"><div className="premium-section-title"><h2>Live preview</h2><Link href={p.page?.slug==='home'?'/':`/site/${p.page?.slug??''}`} target="_blank">View page ↗</Link></div>{p.preview?<CmsLivePreview draft={p.preview} settings={{revision:p.global?.revision??0,settings:p.settings}} focus={['content','style'].includes(mode)&&section?{sectionId:section.id,itemId:item?.id,path:selected?.path??selected?.keys?.slice(0,1)}:undefined}/>:<p>Select a page to preview.</p>}</aside></div>
  </section>;

diff --git a/src/components/portal/context-cms.css b/src/components/portal/context-cms.css
@@ -2,3 +2,4 @@
 @media(max-width:1190px){.cms-context-grid{grid-template-columns:minmax(0,1fr)}.cms-context-preview{display:none;position:static}.cms-context-grid.show-preview .cms-context-editor{display:none}.cms-context-grid.show-preview .cms-context-preview{display:block}.cms-context-bar{flex-wrap:wrap}.cms-context-bar .studio-actions{gap:7px}.cms-context-bar button{font-size:11px;padding:9px 12px}.cms-context-editor{padding:20px}}
 @media(max-width:650px){.portal-shell:has(.context-cms) .portal-main{padding:14px}.cms-context-bar{padding:12px;top:0}.cms-context-bar .studio-actions{display:grid;grid-template-columns:repeat(2,1fr);width:100%}.cms-editor-tabs{width:100%}.cms-editor-tabs button{padding:9px 12px}.cms-context-editor{padding:17px}.cms-page-grid{grid-template-columns:1fr}.cms-breadcrumbs{font-size:10px}.cms-context-preview{padding:12px}}
 .portal-shell:has(.context-cms) .portal-workspace{height:100dvh;overflow:hidden}.portal-shell:has(.context-cms) .portal-main{overflow:hidden}.portal-shell:has(.context-cms) .portal-footnote{display:none}.context-cms{height:calc(100dvh - 120px);display:flex;flex-direction:column}.cms-context-grid{flex:1;min-height:0;overflow:hidden}.cms-context-editor,.cms-context-preview{height:100%;overflow:auto;position:static}.cms-tree-search input{background:transparent!important;color:#ecfff7!important;border:0!important;box-shadow:none!important;min-height:28px!important;padding:2px!important}.cms-tree-search{padding:8px!important}.cms-tree-row>button:last-child{font-size:12px!important;line-height:1.6!important}.cms-tree-row>button.selected{color:#075959!important}.cms-tree-search input::placeholder{color:#bcd9da!important}@media(max-width:650px){.context-cms{height:calc(100dvh - 146px)}}
+.cms-card-manager{margin:18px 0 24px;min-width:0}.cms-card-manager-heading{display:flex;align-items:flex-start;justify-content:space-between;gap:12px;position:sticky;top:-23px;z-index:3;background:#fff;padding:12px 0}.cms-card-manager-heading h3{margin:0 0 6px}.cms-card-manager-heading p{font-size:12px;color:#456475;margin:0;line-height:1.6}.cms-card-manager-heading>button{flex-shrink:0}.cms-card-manager-list{display:grid;gap:14px;margin-top:12px}.cms-manage-card{border:1px solid #d5e6e1;border-radius:12px;overflow:hidden;padding:12px;background:#fafffc}.cms-manage-card-open{display:flex;align-items:center;gap:14px;width:100%;border:0;background:transparent;color:#183e50;text-align:left;padding:0;min-width:0}.cms-manage-card-open img,.cms-card-no-image{width:88px;height:68px;flex-shrink:0;border-radius:8px;object-fit:cover;background:#e6f2ed}.cms-card-no-image{display:grid;place-items:center;font-size:11px;color:#275d59}.cms-manage-card-open strong{font-size:13px;overflow-wrap:anywhere}.cms-manage-card-open small{display:block;margin-top:7px;font-size:11px;color:#456979}.cms-manage-card-actions,.cms-card-editor-toolbar{display:flex;flex-wrap:wrap;gap:8px;margin-top:14px}.cms-manage-card-actions button,.cms-delete-button{padding:8px 12px;border:1px solid #c8ded7;background:white;border-radius:7px;color:#1b5856;font-size:12px;cursor:pointer}.cms-delete-button{color:#9d3631!important;border-color:#e9c6c2!important}.cms-card-manager button:disabled,.cms-card-editor-toolbar button:disabled{opacity:.5;cursor:not-allowed}.cms-card-editor-toolbar{padding:12px 0;margin-bottom:15px;border-bottom:1px solid #dce9e4}@media(max-width:650px){.cms-card-manager-heading{top:-17px;flex-wrap:wrap}.cms-manage-card-open img,.cms-card-no-image{width:68px;height:60px}}

diff --git a/src/components/portal/CmsCardCollection.tsx b/src/components/portal/CmsCardCollection.tsx
@@ -1,0 +1,10 @@
+'use client';
+import Image from 'next/image';
+import type {CmsContextProps,CmsSection} from './CmsContextWorkspace';
+import type {CmsNode} from '@/client/cms-tree.mjs';
+export function CmsCardCollection({p,section,onSelect}:{p:CmsContextProps;section:CmsSection;onSelect:(node:CmsNode)=>void}){
+ const cards=section.items.slice().sort((a,b)=>a.order-b.order),locked=p.busy||!p.writable||p.unsaved;
+ return <section className="cms-card-manager" aria-label="Manage section cards"><div className="cms-card-manager-heading"><div><h3>Content cards</h3><p>Edit text, upload images and arrange cards. Save draft, then publish the page.</p></div><button className="portal-primary" disabled={locked} onClick={p.createItem}>+ Add card</button></div>{p.unsaved&&<p className="studio-hint">Save or reset your current changes before adding, moving or deleting cards.</p>}
+ {!cards.length&&<p>No cards yet. Choose Add card to create the first one.</p>}
+ <div className="cms-card-manager-list">{cards.map((card,index)=><article key={card.id} className="cms-manage-card"><button className="cms-manage-card-open" onClick={()=>onSelect({id:'item:'+card.id,pageId:p.page!.id,sectionId:section.id,itemId:card.id,type:'item',label:card.title||'Untitled card'})}>{card.mediaId?<Image unoptimized src={`/api/v1/teacher/website/media/${card.mediaId}/preview`} width={120} height={90} alt=""/>:<span className="cms-card-no-image">Add image</span>}<span><strong>{card.title||'Untitled card'}</strong><small>{card.visible?'Visible':'Hidden'} · Edit text & image</small></span></button><div className="cms-manage-card-actions"><button disabled={p.busy} onClick={()=>onSelect({id:'item:'+card.id,pageId:p.page!.id,sectionId:section.id,itemId:card.id,type:'item',label:card.title||'Untitled card'})}>Edit card</button><button aria-label={`Move card ${index+1} up`} disabled={locked||index===0} onClick={()=>p.reorder(section.id,cards.map(c=>c.id),index,-1)}>↑</button><button aria-label={`Move card ${index+1} down`} disabled={locked||index===cards.length-1} onClick={()=>p.reorder(section.id,cards.map(c=>c.id),index,1)}>↓</button><button disabled={locked} onClick={()=>p.duplicate(section,card)}>Duplicate</button><button disabled={locked} onClick={()=>p.hide(section,card)}>{card.visible?'Hide':'Show'}</button><button className="cms-delete-button" disabled={locked} onClick={()=>{if(window.confirm(`Delete “${card.title}” from this page's draft? Publish afterward to remove it from the website.`))p.remove(section,card);}}>Delete card</button></div></article>)}</div></section>;
+}

diff --git a/src/components/portal/CmsImageField.tsx b/src/components/portal/CmsImageField.tsx
@@ -2,6 +2,7 @@
 import {useState,useRef} from 'react';
 import Image from 'next/image';
 
+let activeUploads=0;
 export type MediaAsset = {
   id: string;
   alt: string;
@@ -50,6 +51,7 @@ export function CmsImageField({
     }
 
     setUploading(true);
+    window.dispatchEvent(new CustomEvent('educentre:media-busy',{detail:++activeUploads}));
     onBusyChange?.(true);
     setError('');
     const effectiveAlt = altText.trim() || `${label} image`;
@@ -82,6 +84,7 @@ export function CmsImageField({
       setError((err as Error).message || 'Failed to upload image.');
     } finally {
       setUploading(false);
+      window.dispatchEvent(new CustomEvent('educentre:media-busy',{detail:--activeUploads}));
       onBusyChange?.(false);
     }
   }

diff --git a/src/components/website/premium-public.css b/src/components/website/premium-public.css
@@ -17,3 +17,8 @@
 .tale-site .tale-copy-only{padding-block:clamp(32px,3.4vw,48px)}.tale-copy-only>.tale-section-title{margin-bottom:0}
 
 .tale-sample-label{display:inline-flex;margin-bottom:.75rem;padding:.3rem .6rem;border:1px solid #b9d7cf;border-radius:999px;background:#eef8f3;color:#23524c;font-size:.7rem;font-weight:700;letter-spacing:.025em}
+.tale-site .tale-carousel-card{left:50%;top:50%;translate:-50% -50%}
+.tale-site .tale-cards{display:flex;justify-content:center;flex-wrap:wrap;gap:22px}
+.tale-site .tale-cards>.cms-presentation-section{flex:0 1 350px;min-width:0}
+.tale-site .tale-cards>.cms-presentation-section>.tale-card{height:100%}
+@media(max-width:680px){.tale-site .tale-cards>.cms-presentation-section{flex-basis:100%}}

diff --git a/docs/CMS_CARD_MANAGEMENT_2026_10_22.md b/docs/CMS_CARD_MANAGEMENT_2026_10_22.md
@@ -1,0 +1,24 @@
+# Card management and carousel repair
+
+The user reported that image-card editing/addition was difficult to find, Delete was missing, and the course carousel should keep its active card centered while rotating sequentially.
+
+Every CMS section now exposes a card manager before the section fields, with a visible Add card action, image thumbnails, explicit Edit card, move up/down, Duplicate, Hide/Show and Delete card. New cards open directly in their full editor. Common title, description, link and visibility fields stay available even for typed catalogs; their schema-specific fields remain editable separately. Card image upload, image-library selection and removal use the existing authenticated Supabase media pipeline. Cloudinary is not needed.
+
+Image attachment/removal is now a pending draft change. Editing text and then uploading an image no longer forces an immediate page reload that discards the text. Save draft/Update card serializes text, structured fields, presentation and image changes using the latest read-back revision. Active uploads block saving/publishing. Published visitors continue to receive the prior snapshot until Publish.
+
+Teacher-only deletion is added through the existing organization endpoint. The migration `20261022081801_cms_draft_card_deletion.sql` was rollback-tested locally and applied to the existing hosted project. It validates the page/section/item relationship, takes the page revision lock, checks replay payloads and records removed content in the audit log. It deletes only draft records; published snapshots and image objects are retained. Existing organization operations delegate to the prior guarded implementation, whose direct client grants are revoked. No account, enrollment, financial or genuine authored records were deleted during verification.
+
+The active carousel card now has explicit horizontal and vertical center anchoring, retaining its depth/slide transitions, sequential controls, autoplay, hover/focus pause, swipe and reduced-motion behavior. Ordinary card groups also center their last row instead of filling left-hand grid tracks.
+
+Verification:
+
+- 755 automated tests pass; typecheck, relevant ESLint review and optimized build pass. Existing lint warnings are unchanged.
+- Actual Teacher browser flow passes Add/Edit/Save on gallery, news, reviews, results, courses, cards, materials, routine and academic-calendar sections in an isolated archived fixture.
+- Typed Gallery editing, image upload after text edits, duplicate, reorder, delete, public read-back and draft/public deletion separation pass.
+- CMS at 375px has no horizontal overflow.
+- Active carousel is centered within 2px at 375/768/1440/1920px; sequential navigation, autoplay and reduced-motion checks pass.
+- PostgreSQL rollback checks pass deletion, stale/foreign target denial, idempotent replay, preserved published snapshots, deletion audit and non-Teacher denial.
+
+Evidence: `docs/evidence/2026-10-22/card-management.json`, `centered-carousel.json` and `centered-carousel.png`. Browser verification scripts create only isolated DEMO fixtures and archive them afterward. Full media editing remains available through the existing Website Studio and private media library.
+
+Deployment uses the existing `feature/p00-foundation` delivery branch. The Vercel team's production promotion access remains outside the connected account; a successful preview build must not be described as confirmed production activation.
